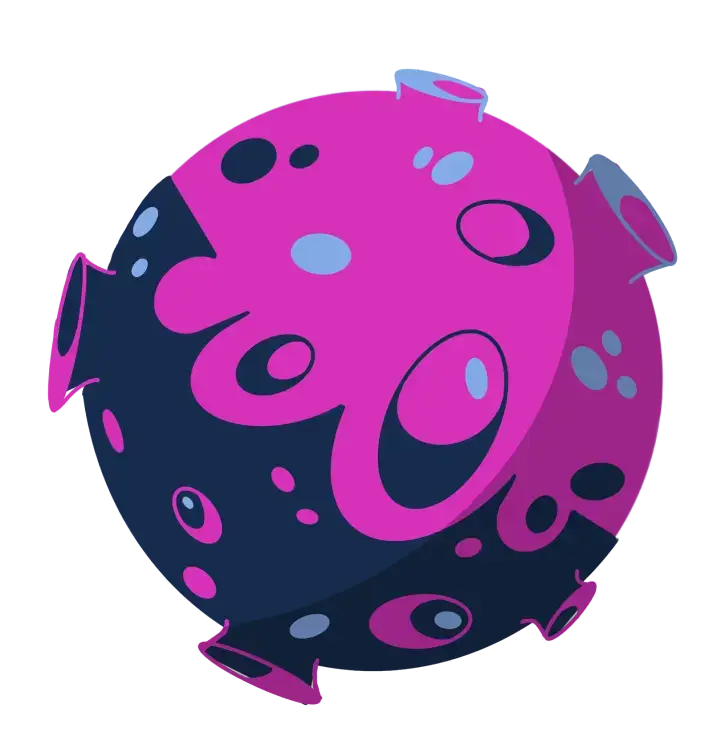
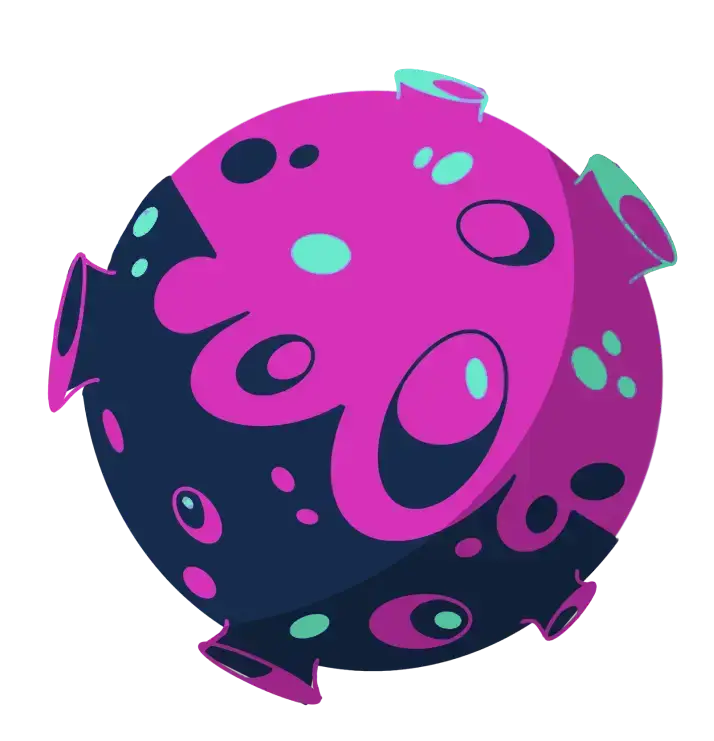
Partially retheme with Neutron colors

diff --git a/src/features/transfer/TransferTokenCard.tsx b/src/features/transfer/TransferTokenCard.tsx
@@ -3,6 +3,7 @@ import { WideChevron } from '@hyperlane-xyz/widgets';
 
 import { Spinner } from '../../components/animation/Spinner';
 import { Card } from '../../components/layout/Card';
+import { Color } from '../../styles/Color';
 // import GearIcon from '../../images/icons/gear.svg';
 import { useTokenRoutes } from '../tokens/routes/hooks';
 
@@ -15,10 +16,16 @@ export function TransferTokenCard() {
     <Card className="w-100 sm:w-[31rem]">
       <>
         <div className="absolute left-0 right-0 -top-36 xs:-top-[6.5rem] flex justify-center overflow-hidden z-10">
-          <WideChevron direction="s" height="100%" width="100" rounded={true} />
+          <WideChevron
+            direction="s"
+            height="100%"
+            width="100"
+            rounded={true}
+            color={Color.primaryMint}
+          />
         </div>
         <div className="relative flex items-start justify-between z-20">
-          <h2 className="pl-0.5 text-lg text-blue-500">Send Tokens</h2>
+          {/* <h2 className="pl-0.5 text-lg">Send Tokens</h2> */}
           {/* <IconButton
           imgSrc={GearIcon}
           width={20}

diff --git a/src/components/buttons/SolidButton.tsx b/src/components/buttons/SolidButton.tsx
@@ -2,7 +2,7 @@ import { PropsWithChildren, ReactElement } from 'react';
 
 interface ButtonProps {
   type?: 'submit' | 'reset' | 'button';
-  color?: 'white' | 'blue' | 'green' | 'red' | 'gray' | 'pink'; // defaults to blue
+  color?: 'white' | 'blue' | 'green' | 'red' | 'gray' | 'pink' | 'mint'; // defaults to blue
   bold?: boolean;
   classes?: string;
   icon?: ReactElement;
@@ -38,6 +38,10 @@ export function SolidButton(
     baseColors = 'bg-green-500 text-white';
     onHover = 'hover:bg-green-600';
     onActive = 'active:bg-green-700';
+  } else if (color === 'mint') {
+    baseColors = 'bg-mint-500 text-white';
+    onHover = 'hover:bg-mint-600';
+    onActive = 'active:bg-mint-700';
   } else if (color === 'red') {
     baseColors = 'bg-red-600 text-white';
     onHover = 'hover:bg-red-500';
@@ -47,7 +51,7 @@ export function SolidButton(
     onHover = 'hover:bg-blue-100';
     onActive = 'active:bg-blue-200';
   } else if (color === 'gray') {
-    baseColors = 'bg-gray-100 text-blue-500';
+    baseColors = 'bg-gray-100 text-mint-700';
     onHover = 'hover:bg-gray-200';
     onActive = 'active:bg-gray-300';
   }

diff --git a/src/components/nav/Header.tsx b/src/components/nav/Header.tsx
@@ -3,8 +3,7 @@ import Link from 'next/link';
 
 import { WalletControlBar } from '../../features/wallet/WalletControlBar';
 import Logo from '../../images/logos/app-logo.svg';
-import Name from '../../images/logos/app-name.svg';
-import Title from '../../images/logos/app-title.svg';
+import Name from '../../images/logos/hyperlane-white.svg';
 
 export function Header() {
   return (
@@ -13,7 +12,9 @@ export function Header() {
         <Link href="/" className="py-2 flex items-center">
           <Image src={Logo} width={24} alt="" />
           <Image src={Name} width={130} alt="" className="hidden sm:block mt-0.5 ml-2" />
-          <Image src={Title} width={210} alt="" className="mt-0.5 ml-2 pb-px" />
+          <h1 className="ml-2 pt-0.5 text-2xl text-white font-bold uppercase tracking-wide">
+            Nexus
+          </h1>
         </Link>
         <div className="flex flex-col items-end md:flex-row-reverse md:items-start gap-2">
           <WalletControlBar />

diff --git a/src/features/wallet/SideBarMenu.tsx b/src/features/wallet/SideBarMenu.tsx
@@ -112,7 +112,7 @@ export function SideBarMenu({
           </button>
         )}
         <div className="w-full h-full flex flex-col overflow-y-auto">
-          <div className="w-full rounded-t-md bg-blue-500 py-2 px-3.5 text-white text-base font-normal tracking-wider">
+          <div className="w-full rounded-t-md bg-mint-600 py-2 px-3.5 text-white text-base font-normal tracking-wider">
             Connected Wallets
           </div>
           <div className="my-3 px-3 space-y-3">
@@ -144,7 +144,7 @@ export function SideBarMenu({
               <div className="ml-2">Disconnect all wallets</div>
             </button>
           </div>
-          <div className="w-full bg-blue-500 py-2 px-3.5 mb-4 text-white text-base font-normal tracking-wider">
+          <div className="w-full bg-mint-600 py-2 px-3.5 mb-4 text-white text-base font-normal tracking-wider">
             Transfer History
           </div>
           <div className="flex grow flex-col px-3.5">

diff --git a/src/components/layout/AppLayout.tsx b/src/components/layout/AppLayout.tsx
@@ -18,13 +18,13 @@ export function AppLayout({ children }: PropsWithChildren) {
       <div
         style={styles.container}
         id="app-content"
-        className="relative flex flex-col justify-between h-full min-h-screen w-full min-w-screen bg-blue-500"
+        className="relative flex flex-col justify-between h-full min-h-screen w-full min-w-screen bg-[#15171a]"
       >
         <div className="hidden md:flex absolute left-[8%] top-[15%]">
           <Image src={Planet1} alt="Planet 1" width={200} priority={false} quality={50}></Image>
         </div>
         <div className="hidden md:flex absolute right-[8%] bottom-1/4">
-          <Image src={Planet2} alt="Planet 2" width={300} priority={false} quality={50}></Image>
+          <Image src={Planet2} alt="Planet 2" width={220} priority={false} quality={50}></Image>
         </div>
         <Header />
         <div className="px-4 mx-auto grow flex items-center max-w-screen-xl">

diff --git a/src/features/chains/ChainSelectField.tsx b/src/features/chains/ChainSelectField.tsx
@@ -69,7 +69,7 @@ export function ChainSelectField({ name, label, chainCaip2Ids, onChange, disable
 }
 
 const styles = {
-  base: 'w-36 px-2.5 py-2 relative -top-1.5 flex items-center justify-between text-sm bg-white rounded-full border border-blue-300 outline-none transition-colors duration-500',
-  enabled: 'hover:bg-gray-50 active:bg-gray-100 focus:border-blue-500',
+  base: 'w-36 px-2.5 py-2 relative -top-1.5 flex items-center justify-between text-sm bg-white rounded-full border border-mint-300 outline-none transition-colors duration-500',
+  enabled: 'hover:bg-gray-50 active:bg-gray-100 focus:border-mint-500',
   disabled: 'bg-gray-150 cursor-default',
 };

diff --git a/src/features/tokens/TokenSelectField.tsx b/src/features/tokens/TokenSelectField.tsx
@@ -89,7 +89,7 @@ export function TokenSelectField({
 }
 
 const styles = {
-  base: 'mt-1.5 w-full px-2.5 py-2 flex items-center justify-between text-sm bg-white rounded-full border border-blue-300 outline-none transition-colors duration-500',
-  enabled: 'hover:bg-gray-50 active:bg-gray-100 focus:border-blue-500',
+  base: 'mt-1.5 w-full px-2.5 py-2 flex items-center justify-between text-sm bg-white rounded-full border border-mint-300 outline-none transition-colors duration-500',
+  enabled: 'hover:bg-gray-50 active:bg-gray-100 focus:border-mint-500',
   disabled: 'bg-gray-150 cursor-default',
 };

diff --git a/src/components/buttons/ConnectAwareSubmitButton.tsx b/src/components/buttons/ConnectAwareSubmitButton.tsx
@@ -28,7 +28,7 @@ export function ConnectAwareSubmitButton<FormValues = any>({ chainCaip2Id, text,
   const hasError = Object.keys(touched).length > 0 && Object.keys(errors).length > 0;
   const firstError = `${Object.values(errors)[0]}` || 'Unknown error';
 
-  const color = hasError ? 'red' : 'pink';
+  const color = hasError ? 'red' : 'mint';
   const content = hasError ? firstError : isAccountReady ? text : 'Connect Wallet';
   const type = isAccountReady ? 'submit' : 'button';
   const onClick = isAccountReady ? undefined : connectFn;

diff --git a/src/components/input/TextField.tsx b/src/components/input/TextField.tsx
@@ -26,4 +26,4 @@ export function TextInput({ onChange, classes, ...props }: InputProps) {
 }
 
 const defaultInputClasses =
-  'mt-1.5 px-2.5 py-2 text-sm rounded-full border border-blue-300 focus:border-blue-500 disabled:bg-gray-150 outline-none transition-all duration-300';
+  'mt-1.5 px-2.5 py-2 text-sm rounded-full border border-mint-300 focus:border-mint-500 disabled:bg-gray-150 outline-none transition-all duration-300';

diff --git a/tailwind.config.js b/tailwind.config.js
@@ -65,6 +65,16 @@ module.exports = {
           700: '#952281',
           800: '#6B185C',
           900: '#400E37',
+        },
+        // Neutron teal
+        mint: {
+          200: '##2e5c5',
+          300: '#5ce1bc',
+          400: '#47ddb3',
+          500: '#31D99C',
+          600: '#25cb9d',
+          700: '#21b68c',
+          800: '#1ea07b'
         }
       },
       fontSize: {

diff --git a/src/components/layout/Card.tsx b/src/components/layout/Card.tsx
@@ -7,7 +7,7 @@ interface Props {
 export function Card({ className, children }: PropsWithChildren<Props>) {
   return (
     <div
-      className={`p-3 md:p-3.5 relative bg-white ring ring-blue-300 rounded-3xl overflow-auto ${className}`}
+      className={`p-3 md:p-3.5 relative bg-white ring ring-mint-300 rounded-3xl overflow-auto ${className}`}
     >
       {children}
     </div>

diff --git a/src/consts/config.ts b/src/consts/config.ts
@@ -20,7 +20,7 @@ export const config: Config = Object.freeze({
   debug: isDevMode,
   version,
   explorerApiKeys,
-  showTipBox: true,
+  showTipBox: false,
   showDisabledTokens: true,
   walletConnectProjectId,
   withdrawalWhitelist,
